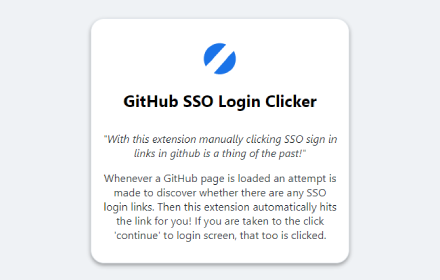
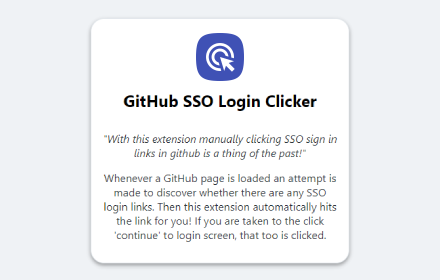
Publish new release 1.0.6
Supports two types of button class use and updated icon

Changed region(s): [[0.4432, 0.1143, 0.5614, 0.3143]]

diff --git a/extension/scripts/sso-auto-click.js b/extension/scripts/sso-auto-click.js
@@ -17,12 +17,17 @@ if (url.includes('/sso') || url.includes('/pull') ) {
     var buttons = document.getElementsByTagName('button');
 
     for (var i = 0; i < buttons.length; i++) {
-        if (buttons[i].classList.contains('Button--primary') && buttons[i].classList.contains('Button')) {
+
+        const isPrimaryButton = 
+        (buttons[i].classList.contains('Button--primary') && buttons[i].classList.contains('Button') ||
+        (buttons[i].classList.contains('btn-primary') && buttons[i].classList.contains('btn') && buttons[i].classList.contains('btn-block')));
+
+        if (isPrimaryButton) {
             if (buttons[i].textContent.indexOf('Continue') > -1) {
                 buttons[i].click();
                 break;
             }
         }
-    }
 
+    }
 }
